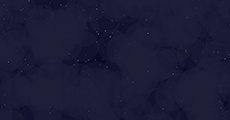
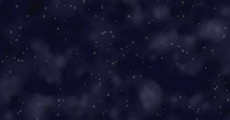
part 3

diff --git a/drawgrid.js b/drawgrid.js
@@ -12,9 +12,8 @@
 // This version draws two rectangles and two ellipses.
 // The rectangles are 960x720 and centered at 512,512.
 var max_thickness = 64;
-var max_movement = 90;
+var max_movement = 150;
 var grid_size = 64;
-
 
 function snap_to_grid(num, gsize) {
 	return (num - (num % gsize));
@@ -31,8 +30,7 @@ function getOffsetPoint(p5, x, y, z, noiseScale) {
 }
 
 function drawGrid(p5, x1, x2, y1, y2, z, zoom) {
-	//console.log(y1, y2);
-	p5.background(10, 10, 30);
+	p5.background(25, 25, 50);
 	p5.noStroke();
 	p5.noiseSeed(99);
 	var max_shift = max_thickness + max_movement;
@@ -52,6 +50,8 @@ function drawGrid(p5, x1, x2, y1, y2, z, zoom) {
 		}
 	}
 	//inner function
+	
+	/*This function will transfer the value current position and size to the value of map position and size */
 	function getDrawPosition(posX, posY, sizeX, sizeY) {
 		var cx = p5.map(posX, x1, x2, 0, 256);
 		var cy = p5.map(posY, y1, y2, 0, 256);
@@ -62,38 +62,72 @@ function drawGrid(p5, x1, x2, y1, y2, z, zoom) {
 
 	function drawLanscape(v, posX, posY) {
 		var size = v * 15;
-		if (v < 0.4) {} else if (v < .5) { //clouds
-			p5.fill(40, 40, 60, 20);
+		
+		/* Drawing Clouds
+		 * The "negative space" (dark blue) will be drawn if v is greater than 0.35
+		 * When the zoom parameter is greater than 3, a smooth drawing will be used but the render will be much slower.
+		 * If the less v is, the darker negative space will be drawn, black is possible but rare.
+		 */
+		
+		if (v < .2) {} else if (v < .5) { 
 			var pos = getDrawPosition(posX, posY, size * (1 - v) * 70, size *(1-v) *70);
-			if(zoom < 3) {
-				for(var i = 1; i < 5; i +=.5){
-					p5.ellipse(pos[0], pos[1], pos[2]/i, pos[3]/i);
+			
+			if(zoom < 2) {
+				v > .35 ? p5.fill(20, 20, 40 * p5.map(v,.35,.5,1,.5), 10) : p5.fill(90, 90, 100, 10);
+				for(var i = 1; i < 5; i += .5)
+					p5.ellipse(pos[0], pos[1],pos[2]/i, pos[3]/i);
+				
+			}
+			else{
+				v > .35 ? p5.fill(20, 20, 40 * p5.map(v,.35,.5,1,.5), 10) : p5.fill(120, 120, 140, 10);
+				for(var i = 1; i < 4; i += .1)
+					p5.ellipse(pos[0], pos[1],pos[2]/i, pos[3]/i);
+			}
+			
+
+		} else if (v < 0.6) { //stars
+			var scale = p5.map(v,.5,.6,.5,1);
+			size *= scale;
+			
+			/*The shape of stars will become rounder as zoom in and stars will become circles after zoom in two times*/
+			var shape = 1;
+			zoom > 1 ? shape = p5.sqrt(6) : shape = zoom + 1;
+			
+			var pos = getDrawPosition(posX, posY,  size / 6 * shape, size / shape);
+			
+			if(zoom < 2){
+				p5.fill(255, 255, 200, 5);
+				for(var i = pos[3] * 5; i > pos[3]; i -= pos[3])
+			        p5.ellipse(pos[0], pos[1], i, i);
+				
+			}
+			else if (zoom < 4){
+				p5.fill(255, 255, 230, 10);
+				for(var i = pos[3] * 5; i > pos[3]; i -= pos[3]/2){
+			        p5.ellipse(pos[0], pos[1], i, i);
 				}
 			}
-
-		} else if (v < 0.6) {
-			var color1 = p5.color(40, 40, 60);
-			var color2 = p5.color(255, 255, 150);
-			var c = p5.lerpColor(color1, color2, p5.map(v, 0.5, 0.6, 0, 1));
-			p5.fill(c);
-			var bokehSize = size * p5.map(v, 0.5, 0.6, 1, .2);
-			var pos = getDrawPosition(posX, posY, bokehSize, bokehSize);
-			p5.ellipse(pos[0], pos[1], pos[2], pos[3]);
-
-		} else if (v < 0.7) { //stars
+			else {
+				p5.fill(255, 255, 255, 15);
+				for(var i = pos[3] * 5; i > pos[3]; i -= pos[3]/4){
+			        p5.ellipse(pos[0], pos[1], i, i);
+				}
+			}
+			
+			
+			
 			p5.fill(255, 255, 150);
-			var pos = getDrawPosition(posX, posY, size / 6, size);
 			p5.ellipse(pos[0], pos[1], pos[2], pos[3]);
 			p5.ellipse(pos[0], pos[1], pos[3], pos[2]);
 
 		} else if (v < .8) {
 
-		} else if (v < .9) {
+		} else if (v < .85) {
 			var meteorLengthX, meteorLengthY;
-			p5.random(0, 1) < .5 ? meteorLengthX = -p5.random(size, size * 1.5) / 2 : meteorLengthX = p5.random(size, size * 1.5) / 2;
-			p5.random(0, 1) < .5 ? meteorLengthY = -p5.random(size, size * 1.5) / 2 : meteorLengthY = p5.random(size, size * 1.5) / 2;
+			meteorLengthX = size * 1.5 / 2;
+			meteorLengthY = -size * 1.5 / 2;
 			p5.stroke(255, 255, 180);
-			p5.strokeWeight(2);
+			p5.strokeWeight(zoom/2 + 1);
 			var pos = getDrawPosition(posX - meteorLengthX, posY - meteorLengthY, 0, 0);
 			var pos2 = getDrawPosition(posX + meteorLengthX, posY + meteorLengthY, 0, 0);
 			p5.line(pos[0], pos[1], pos2[0], pos2[1]);

diff --git a/README.md b/README.md
@@ -1,3 +1,3 @@
-## Ps4 
+## Ps4 Paramaterised Map  
 
-I have transfered the code from my ps3 to create this infinite stary sky. The zooming and panning work well but the colour and scale of elements need to be changed in the next version.
+I spent most time to work on the colour scheme and the layout of the clouds. Now the texture is more reliable comparing to my last verion. The more details of the clouds and stars will be drawn after zoom in.
